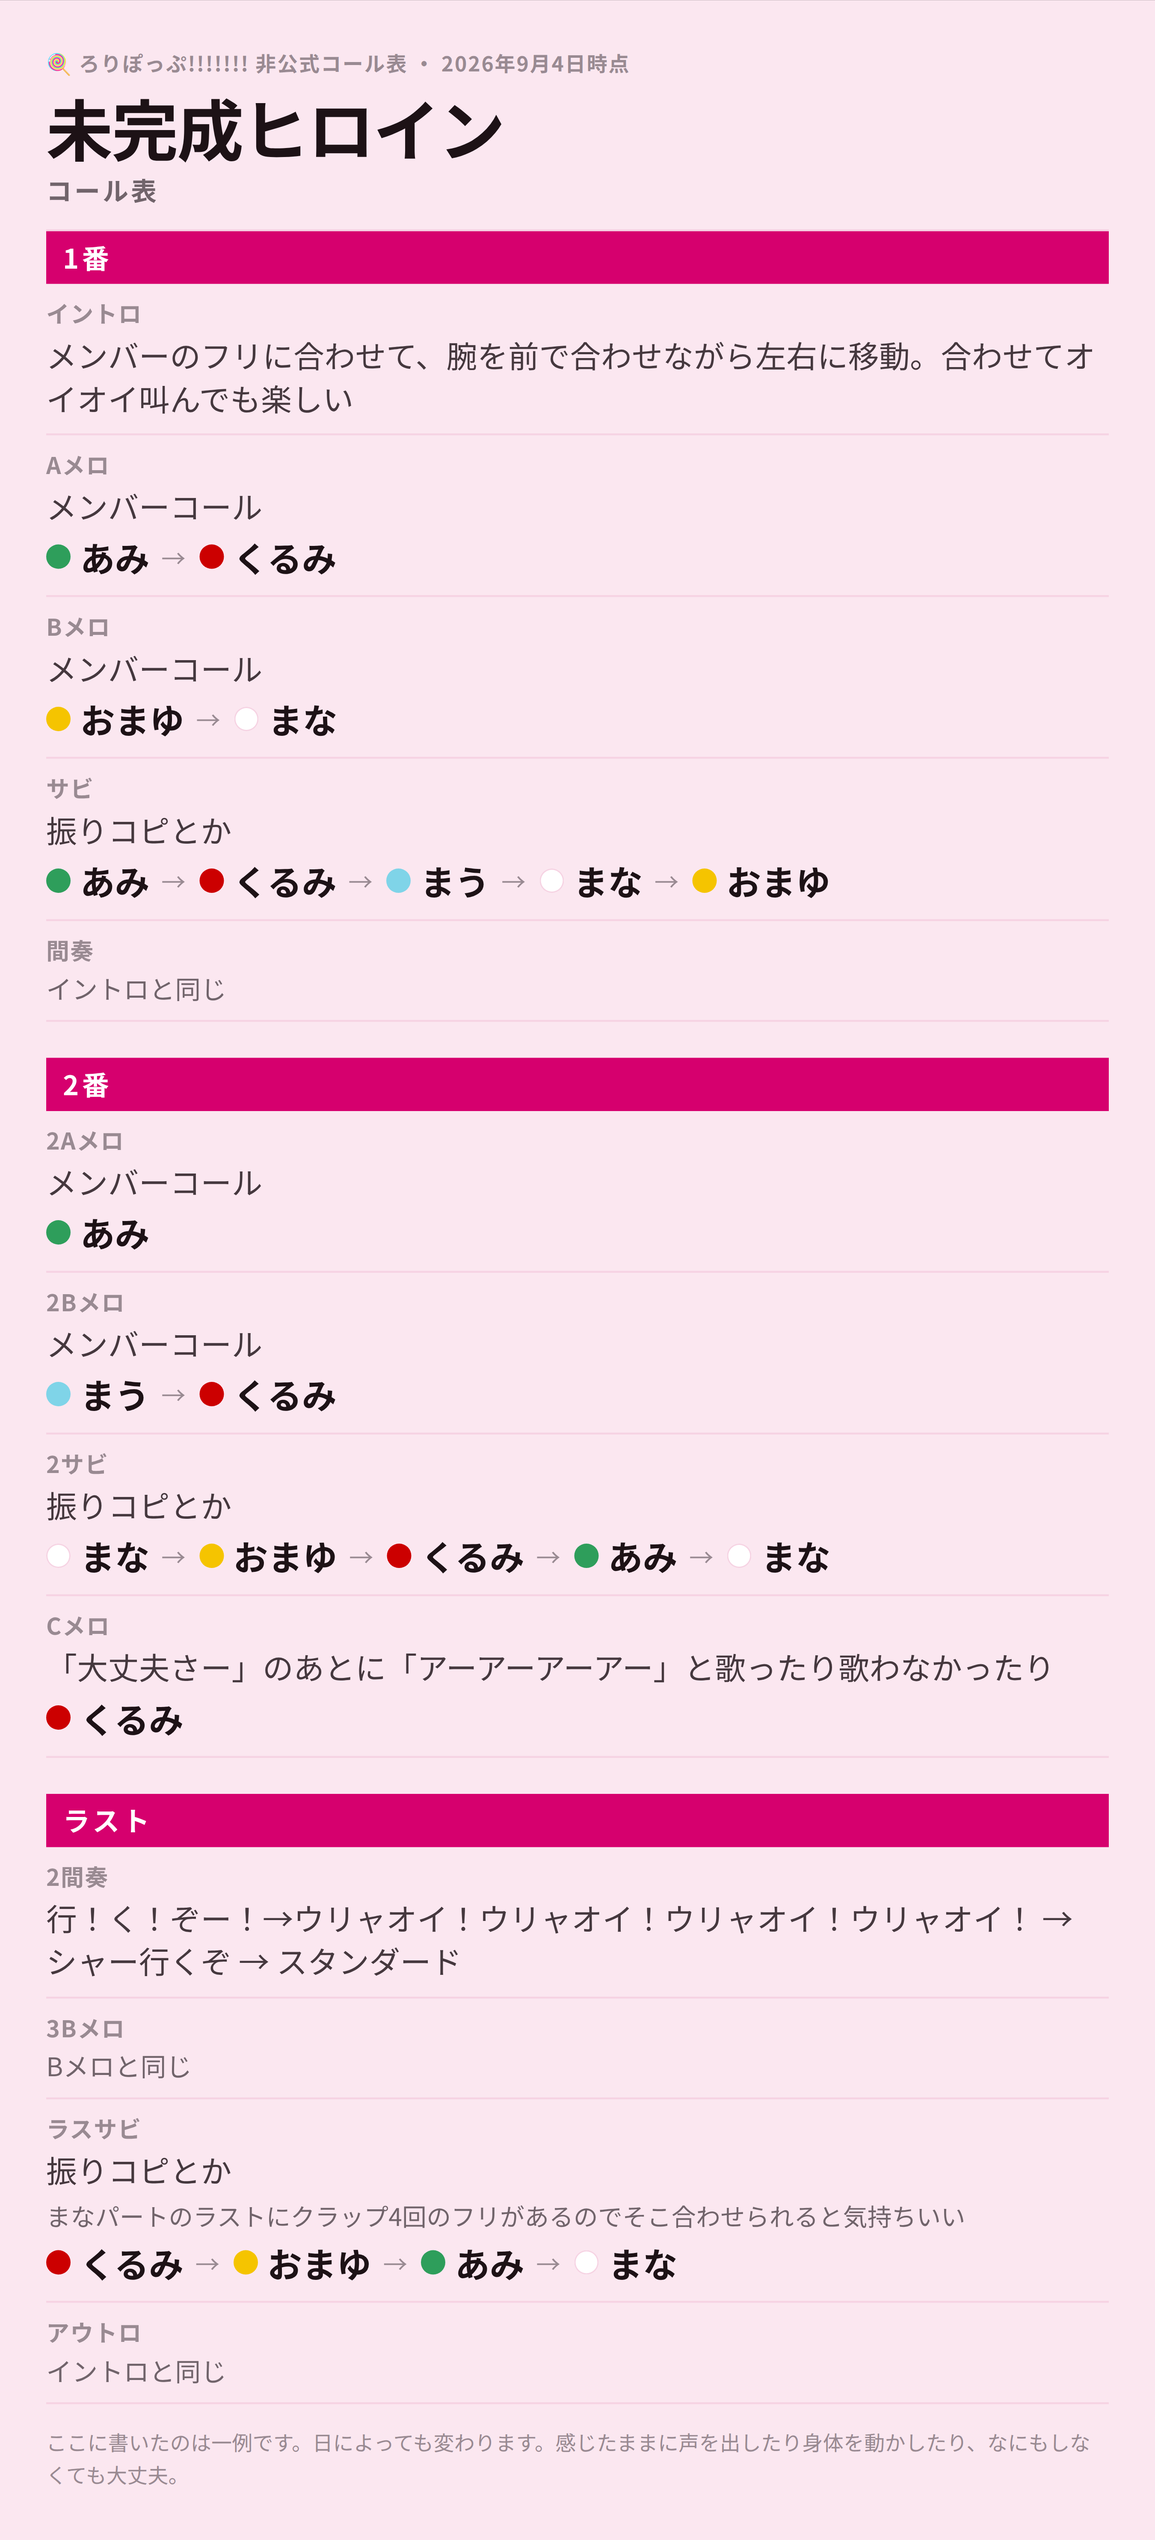
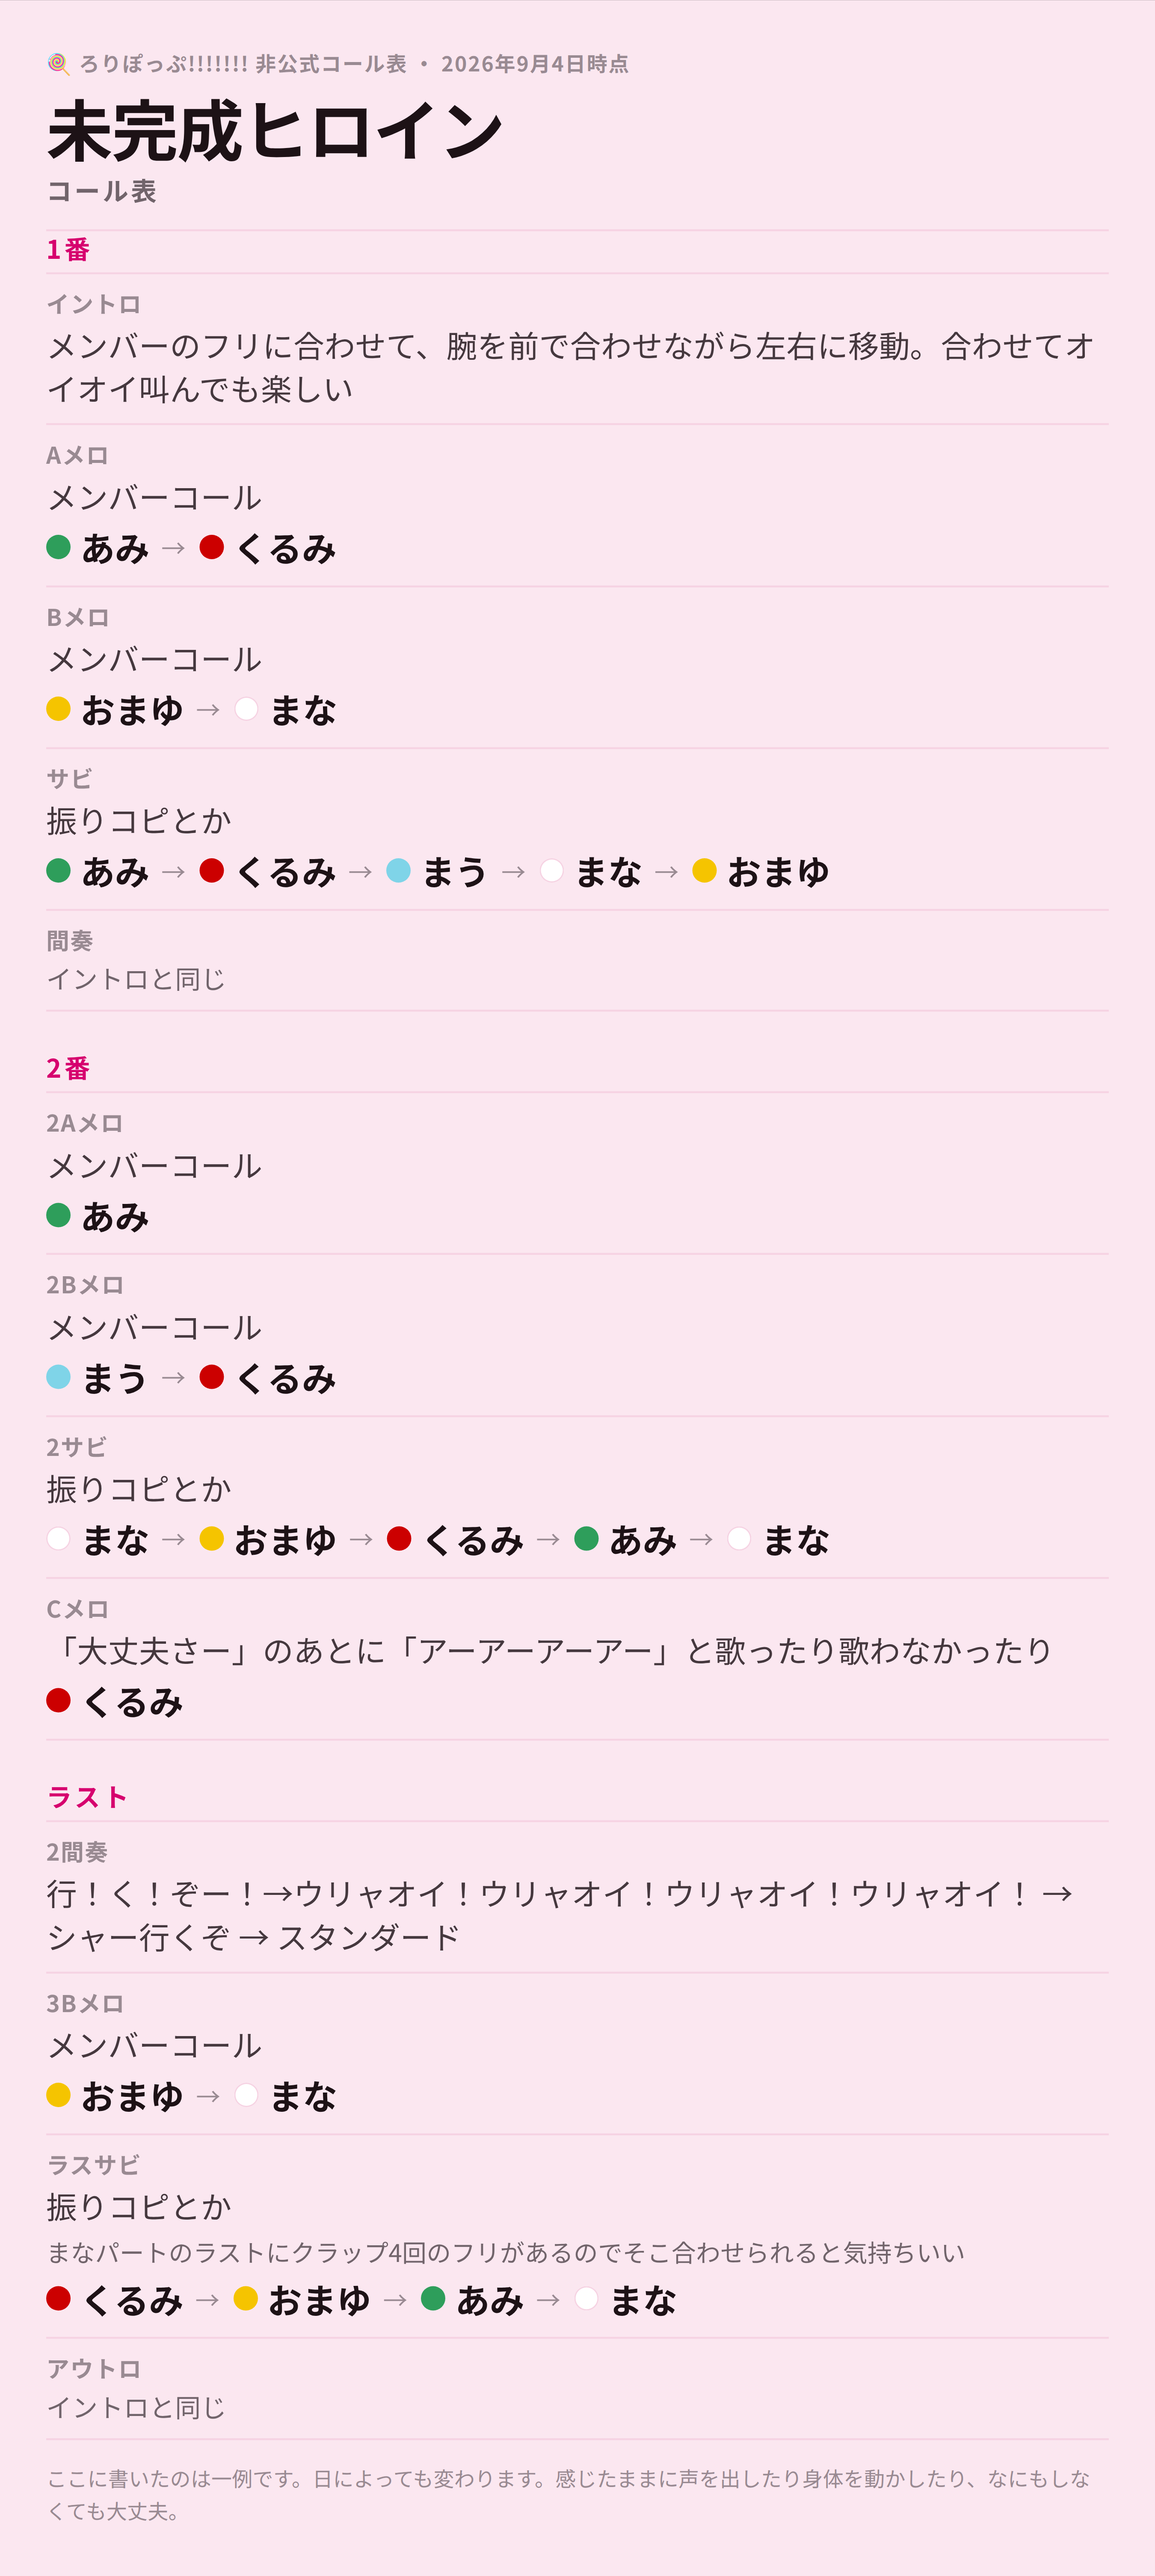
3Bメロを畳むのをやめ、かたまりの帯をスキマに変える
- メンバーパートを持つパートは「〜と同じ」に畳まないようにした。3Bメロが
  「Bメロと同じ」になっていたが、誰が歌うかはそのパートを見てすぐ分かるべきで、
  参照させると読み手が前に戻ることになる。中身が同じでも書き下す。
  イントロ・間奏・アウトロ（メンバーパートを持たない）はこれまで通り畳む。
- 1番 / 2番 / ラストの色の帯をやめ、間を空けて色文字を置くだけにした。
  面にすると帯のほうが主役に見えてしまうため。

Claude-Session: https://claude.ai/code/session_01WNKk4GD6PDbxYTrbdx2WSv

diff --git a/resources/call_sheet_cards.html b/resources/call_sheet_cards.html
@@ -81,20 +81,21 @@ body {
   letter-spacing: -0.02em;
 }
 
-/* かたまりの見出し。1番 / 2番 / ラストを色の帯にして、上に間を空けて積む。
-   帯があると3つのまとまりが一目で分かり、どこを見ているか迷わない */
+/* かたまりの見出し。1番 / 2番 / ラストは、色の面ではなくスキマで分ける。
+   面にすると帯が主役になってしまうので、間を空けて色文字を置くだけにする */
 .block {
-  margin: 56px 0 0;
-  padding: 14px 26px;
-  background-color: var(--accent);
-  color: var(--on-accent);
-  font-size: 42px;
+  margin: 60px 0 12px;
+  color: var(--accent);
+  font-size: 40px;
   font-weight: 700;
   line-height: 1.3;
   letter-spacing: 0.12em;
 }
 
 .block:first-child { margin-top: 0; }
+
+/* 見出しの下は、そこから新しいまとまりが始まることを線で示す */
+.block + .row { border-top: 3px solid var(--line); }
 
 .card__sub {
   margin: 0 0 34px;
@@ -284,7 +285,7 @@ body {
         </div>
         <div class="row">
           <p class="row__part">3Bメロ</p>
-          <div class="row__body"><p class="line line--same">Bメロと同じ</p></div>
+          <div class="row__body"><p class="line">メンバーコール</p><p class="line line--members"><span class="chips"><span class="chip"><span class="dot" style="background-color: var(--mc-mayu);" aria-hidden="true"></span>おまゆ</span><span class="chip"><span class="chip__arrow" aria-hidden="true">→</span><span class="dot dot--outline" style="background-color: var(--mc-mana);" aria-hidden="true"></span>まな</span></span></p></div>
         </div>
         <div class="row">
           <p class="row__part">ラスサビ</p>
@@ -348,7 +349,7 @@ body {
         </div>
         <div class="row">
           <p class="row__part">3Bメロ</p>
-          <div class="row__body"><p class="line line--same">Bメロと同じ</p></div>
+          <div class="row__body"><p class="line">メンバーコール</p><p class="line line--members"><span class="chips"><span class="chip"><span class="dot" style="background-color: var(--mc-mayu);" aria-hidden="true"></span>おまゆ</span><span class="chip"><span class="chip__arrow" aria-hidden="true">→</span><span class="dot dot--outline" style="background-color: var(--mc-mana);" aria-hidden="true"></span>まな</span></span></p></div>
         </div>
         <div class="row">
           <p class="row__part">ラスサビ</p>
@@ -412,7 +413,7 @@ body {
         </div>
         <div class="row">
           <p class="row__part">3Bメロ</p>
-          <div class="row__body"><p class="line line--same">Bメロと同じ</p></div>
+          <div class="row__body"><p class="line">メンバーコール</p><p class="line line--members"><span class="chips"><span class="chip"><span class="dot" style="background-color: var(--mc-mayu);" aria-hidden="true"></span>おまゆ</span><span class="chip"><span class="chip__arrow" aria-hidden="true">→</span><span class="dot dot--outline" style="background-color: var(--mc-mana);" aria-hidden="true"></span>まな</span></span></p></div>
         </div>
         <div class="row">
           <p class="row__part">ラスサビ</p>
@@ -476,7 +477,7 @@ body {
         </div>
         <div class="row">
           <p class="row__part">3Bメロ</p>
-          <div class="row__body"><p class="line line--same">Bメロと同じ</p></div>
+          <div class="row__body"><p class="line">メンバーコール</p><p class="line line--members"><span class="chips"><span class="chip"><span class="dot" style="background-color: var(--mc-mayu);" aria-hidden="true"></span>おまゆ</span><span class="chip"><span class="chip__arrow" aria-hidden="true">→</span><span class="dot dot--outline" style="background-color: var(--mc-mana);" aria-hidden="true"></span>まな</span></span></p></div>
         </div>
         <div class="row">
           <p class="row__part">ラスサビ</p>

diff --git a/resources/build_call_sheet.py b/resources/build_call_sheet.py
@@ -586,20 +586,21 @@ body {
   letter-spacing: -0.02em;
 }
 
-/* かたまりの見出し。1番 / 2番 / ラストを色の帯にして、上に間を空けて積む。
-   帯があると3つのまとまりが一目で分かり、どこを見ているか迷わない */
+/* かたまりの見出し。1番 / 2番 / ラストは、色の面ではなくスキマで分ける。
+   面にすると帯が主役になってしまうので、間を空けて色文字を置くだけにする */
 .block {
-  margin: 56px 0 0;
-  padding: 14px 26px;
-  background-color: var(--accent);
-  color: var(--on-accent);
-  font-size: 42px;
+  margin: 60px 0 12px;
+  color: var(--accent);
+  font-size: 40px;
   font-weight: 700;
   line-height: 1.3;
   letter-spacing: 0.12em;
 }
 
 .block:first-child { margin-top: 0; }
+
+/* 見出しの下は、そこから新しいまとまりが始まることを線で示す */
+.block + .row { border-top: 3px solid var(--line); }
 
 .card__sub {
   margin: 0 0 34px;
@@ -752,6 +753,8 @@ def render_card(song: Song, colors_key: str, mark: str) -> str:
     """1曲まるごとを1枚に。SNSに載せるのはこれ1枚。"""
     # 同じ指示の繰り返しは「〜と同じ」に畳む。イントロ・間奏・アウトロは同じ44文字で、
     # そのまま3回出すと縦が埋まり、その分だけ本文を小さくすることになる。
+    # ただしメンバーパートを含むパートは畳まない。誰が歌うかは、そのパートを見て
+    # すぐ分かるべき情報で、「〜と同じ」で参照させると読み手が前に戻ることになる。
     seen: dict[tuple[str, ...], str] = {}
     body = []
     for label, parts in group(song):
@@ -760,7 +763,8 @@ def render_card(song: Song, colors_key: str, mark: str) -> str:
         for part in parts:
             lines = part_lines(part)
             key = tuple(lines)
-            if key in seen:
+            has_members = any(ROUTE_RE.match(line) for line in lines)
+            if key in seen and not has_members:
                 content = f'<p class="line line--same">{html.escape(seen[key])}と同じ</p>'
             else:
                 seen[key] = part.name
